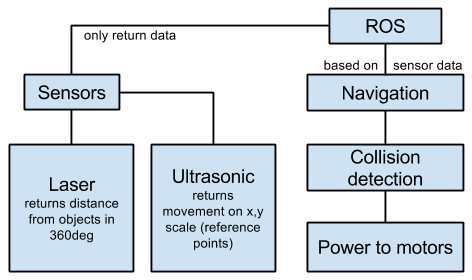
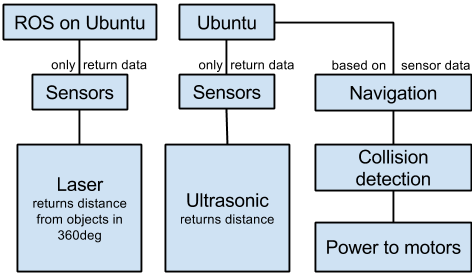
updated pictures, part of discussion restructured

diff --git a/report/sections/ch6-discussion.tex b/report/sections/ch6-discussion.tex
@@ -1,3 +1,5 @@
+During the initial stages of the project the goal was that we wanted to develop an autonomous mapping vehicle. We decided that ROS would be the core of our prototype, because at the time it seemed like the most optimal and most powerful choice for our main operating system. One of the reasons being that there is a lot of documentation and resources about ROS, and people had also previously successfully run ROS and created maps using SLAM on the Raspberry Pi~\cite{pibot}\cite{pibotbook}.
+
 \begin{figure}[H]
 	\centering
 	\includegraphics[scale=.7]{images/developmentdiagram2.png}
@@ -7,32 +9,39 @@
 
 The figure above represents the actual implementation of the mapping and navigation system that we built during the development phase of the project. Compared to the initial plans, the \textit{optical flow} sensors was not implemented due to lack of time and low priority of the feature in hand. The \textit{remote} module was completely left out of the development process for the same reason as the optical flow sensor. Due to an overwhelming time spent on ROS and the laser sensor, we did not manage to create a fully autonomous navigation system, therefore we only implemented collision detection.
 
-During the initial stages of the project the goal was that we wanted to develop an autonomous mapping vehicle. Unfortunately there were many complications and set-backs preventing us from achieving the original goal. We decided that ROS would be the core of our prototype, because at the time it seemed like the most optimal and most powerful choice for our main operating system. One of the reasons being that there is a lot of documentation and resources about ROS, and people had also previously successfully run ROS and created maps using SLAM on the Raspberry Pi.\cite{pibot}\cite{pibotbook}
-
-Early on in the project we decided that ROS would be the core of our prototype, because at the time it seemed like the most optimal choice for our main operating system. One of the reasons being that there is a lot of documentation and resources about ROS, and people had also previously successfully run ROS and created maps using SLAM on the Raspberry Pi.
-
-The ROS installation process proved to be quite the challenge, which then lead to a setback in terms of development. Many of the ROS packages caused different conflicts with Raspbian operating system, even though these packages should have been compatible with the system out-the-box. After spending too much time on fixing the many errors and getting it to work on Raspbian, we decided to switch to Ubuntu ARM, where the installation process was much easier compared to the previous one.
-
-Using the $I^2C$ interface on the Raspberry Pi we were able to gather measurement data from the LIDAR-Lite laser, the next big issue we then encountered was transmitting the gathered data and interpreting it using ROS. Many of the resource regarding gathering data from laser were mostly regarding USB-based, higher-end devices, therefore we had to interface through the $I^2C$ protocol. The library that we used for this matter, the wiringPi library together with the lidarLite library that offered a C interface for the laser for the Raspberry PI through $I^2C$ and GPIO interface was not well optimized for large amount of read and write operations and could have caused our problem of slow data transmission.
-
-When we realised that we would not have the time and resources to make a completely autonomous vehicle, we instead decided to split the prototype into two separate parts: 
+During our development phase, we realised that we would not have the time and resources to make a completely autonomous vehicle, we instead decided to split the prototype into two separate parts: 
 \begin{itemize}
 	\item Navigation system
 	\item Mapping system
 \end{itemize}
 
-%What we then aimed to achieve with the laser was to produce a map using SLAM technique. %Add more here, when we know how well it went.
+The ROS installation process proved to be quite the challenge, which then lead to a setback in terms of development. Many of the ROS packages caused different conflicts with Raspbian operating system, even though these packages should have been compatible with the system out of the box. After spending too much time on fixing the many errors and getting it to work on Raspbian, we decided to switch to Ubuntu ARM, where the installation process was much easier compared to the previous one.
 
-The close proximity detection system, is a low-intelligence autonomous navigation system for the rover. If we succeeded in completing our original scope, the autonomous navigation would have needed to interface with sensors to ensure that it avoided objects at a height that is not recorded by the Lidar and mapping algorithms. So what we have currently achieved is a navigation system that is able to successfully navigate between obstacles by avoiding them and recalculating its direction according to where it detected the obstacles.\\
+Using the $I^2C$ interface via the lidarLite library on the Raspberry Pi we were able to gather measurement data from the laser. Another issue we encountered while transmitting the gathered data and interpreting it using ROS. Many of the resource regarding gathering data from laser were mostly regarding USB-based, higher-end devices, therefore we had to interface through the $I^2C$ protocol. The library that we used for this matter, the wiringPi library together with the lidarLite library that offered a C interface for the laser for the Raspberry PI through $I^2C$ and GPIO interface was not well optimized for large amount of read and write operations and could have caused our problem of slow data transmission.
 
-During testing we observed a couple of key-flaws in terms of the close proximity detection systems performance.
-As described in the testing chapter, the rover would at times get stuck in corners due to the equality of the measurements recorded by the ultrasonic sensors. Whenever the ultrasonic sensors mounted on either side of the rover would have their distance threshold exceeded the rover would continuously try to turn to left, hit the one wall of the corner, and then immediately attempt to turn right, hitting the other wall. This can be fixed by changing the code, so that it reverses the rover when the threshold for the side mounted sensors is exceeded. Currently the rover takes three measurements, and then afterwards compares them in the same sequence: \textit{Left > Right > Center}. This unfortunately always prioritizes turning left, compared to other choices. Optimally the code should be structured to that the navigation algorithm consists of multiple phases, so that the rover takes measurements in the first phase and before making a directional decision it compares the measurements to each other in the second phase. When the measurements have been compared, the rover then knows what direction would be the optimal to turn towards, in the third phase the measured distance would be compared to a threshold distance, depending on the return from the comparison the rover would then adjust its direction.
-Changing the algorithm to something more similar to the one stated above, would add another level of intelligence to the rover, making it more flexible in terms of navigation and decision-making in other situations.
-The rover is currently operated by using four DC motors with regular rubber wheels mounted too them. Currently we do not have precise control over how far the rover moves each time it is powered on, although we have encoders mounted on the two front wheels. To increase the accuracy of the distance moved, encoders for the DC motors could have been used to determine the distance travelled. The rover also does not turn consistently each time, which is either an issue with uneven weight distribution on the rover or because of inaccuracy with the signalling. In terms of improving how well the rover turns, the rover needs to be balanced and the amount each wheels turns by cycle needs to be determined. Another possible solution for the turning inconsistency is using tracks for movement instead of four independently operated wheels. Tracks would have a larger guarantee of on-site turning.
+For the prototype, we used a CAD design we found on the Internet for case and rotation platform for the laser. This design was good enough for a prototype, but one of the first problems we encountered was the jittering gears when rotating by a stepper motor. This limited us doing small step-based calculations using the laser, because it would not take precise microsteps. To overcome this, we would have needed to speed up the rotation, but that would be out of sync with the calculations our laser does.
+
+we didn't know the speed and calculations
+tried speeding it up
+shit map
+stepped motor was not precise enough because two speed
+out of sync
+gear jittering
+combining the two code, syncronous
+
 
 %TODO:add part about SLAM testing
 %TODO:"HOW" the laser mounted on the vehicle works (we basically haven't done this, so it's pure imagination)
+
 Currently, when the mapping device is mounted to the rover, the rover is able to navigating areas whilst the mapping devices creates a map. Due to the low-intelligence of the rover, it is not able to distinguish unknown places from known places, it functions purely by avoiding an object and thereafter determining an optimal direction away from said object.
-%TODO:talk about slam integration. 
+
+The close proximity detection system, is a low-intelligence autonomous navigation system for the rover. If we succeeded in completing our original scope, the autonomous navigation would have needed to interface with sensors to ensure that it avoided objects at a height that is not recorded by the LIDAR-Lite laser and mapping algorithms. So what we have currently achieved is a navigation system that is able to successfully navigate between obstacles by avoiding them and recalculating its direction according to where it detected the obstacles.\\
+
+During testing we observed a couple of key-flaws in terms of the close proximity detection systems performance.
+As described in the testing chapter, the rover would at times get stuck in corners due to the equality of the measurements recorded by the ultrasonic sensors. Whenever the ultrasonic sensors mounted on either side of the rover would have their distance threshold exceeded the rover would continuously try to turn to left, hit the one wall of the corner, and then immediately attempt to turn right, hitting the other wall. This can be fixed by changing the code, so that it reverses the rover when the threshold for the side mounted sensors is exceeded. Currently the rover takes three measurements, and then afterwards compares them in the same sequence: \textit{Left -> Right -> Center}. This unfortunately always prioritizes turning left, compared to other choices. Optimally the code should be structured to that the navigation algorithm consists of multiple phases, so that the rover takes measurements in the first phase and before making a directional decision it compares the measurements to each other in the second phase. When the measurements have been compared, the rover then knows what direction would be the optimal to turn towards, in the third phase the measured distance would be compared to a threshold distance, depending on the return from the comparison the rover would then adjust its direction.
+
+Changing the algorithm to something more similar to the one stated above, would add another level of intelligence to the rover, making it more flexible in terms of navigation and decision-making in other situations.
+
+The rover is currently operated by using four DC motors with regular rubber wheels mounted too them. Currently we do not have precise control over how far the rover moves each time it is powered on, although we have encoders mounted on the two front wheels. To increase the accuracy of the distance moved, encoders for the DC motors could have been used to determine the distance travelled. The rover also does not turn consistently each time, which is either an issue with uneven weight distribution on the rover or because of inaccuracy with the signalling. In terms of improving how well the rover turns, the rover needs to be balanced and the amount each wheels turns by cycle needs to be determined. Another possible solution for the turning inconsistency is using tracks for movement instead of four independently operated wheels. Tracks would have a larger guarantee of on-site turning.
 
 Too much time during this project was spent chasing the idea of getting SLAM to work. It was a bad combination of tools, because it seems like ROS is made for more advanced computing units, with better interfacing.
